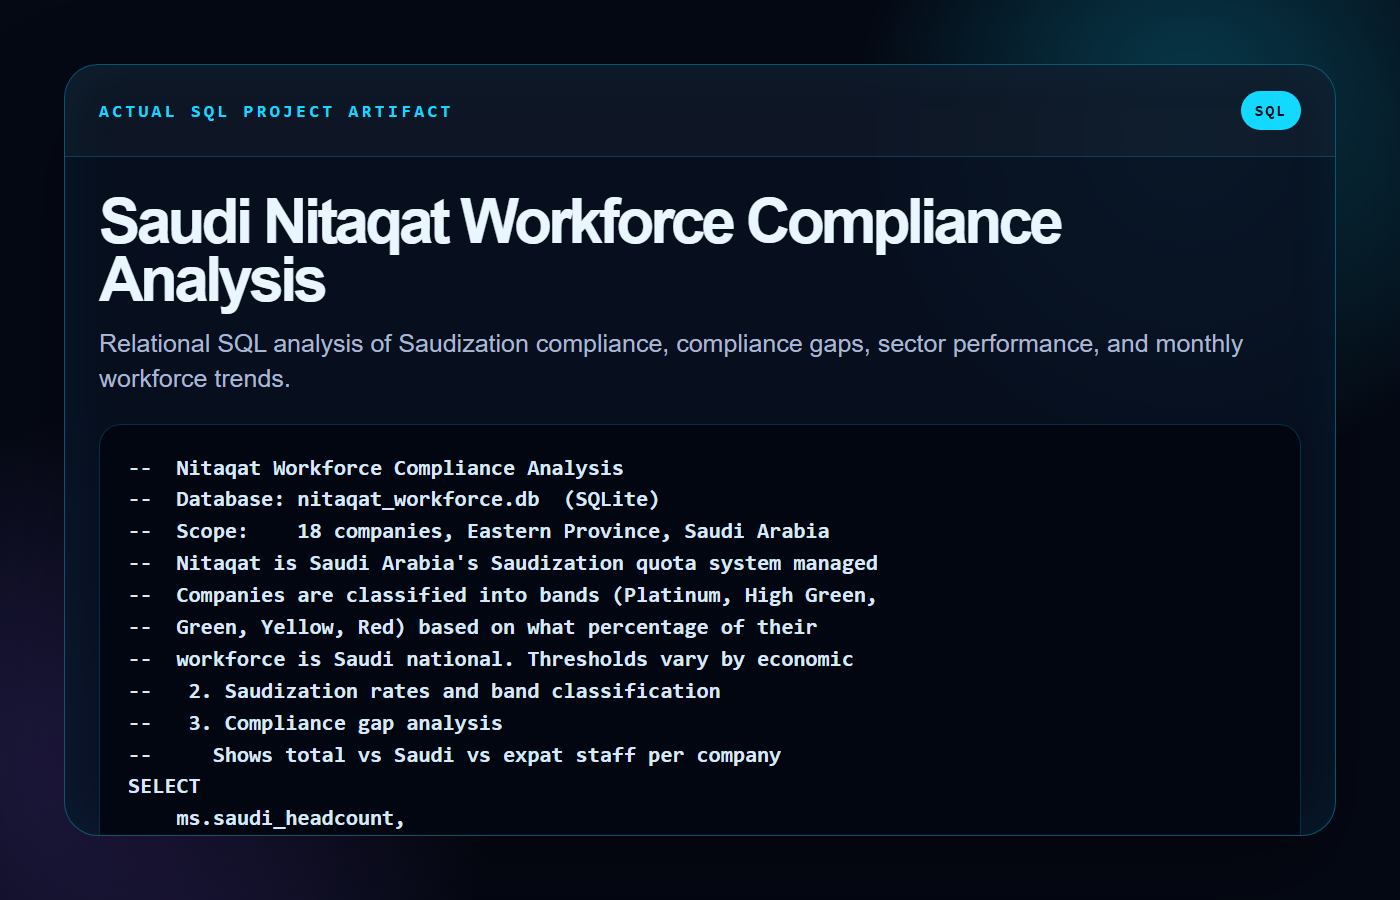
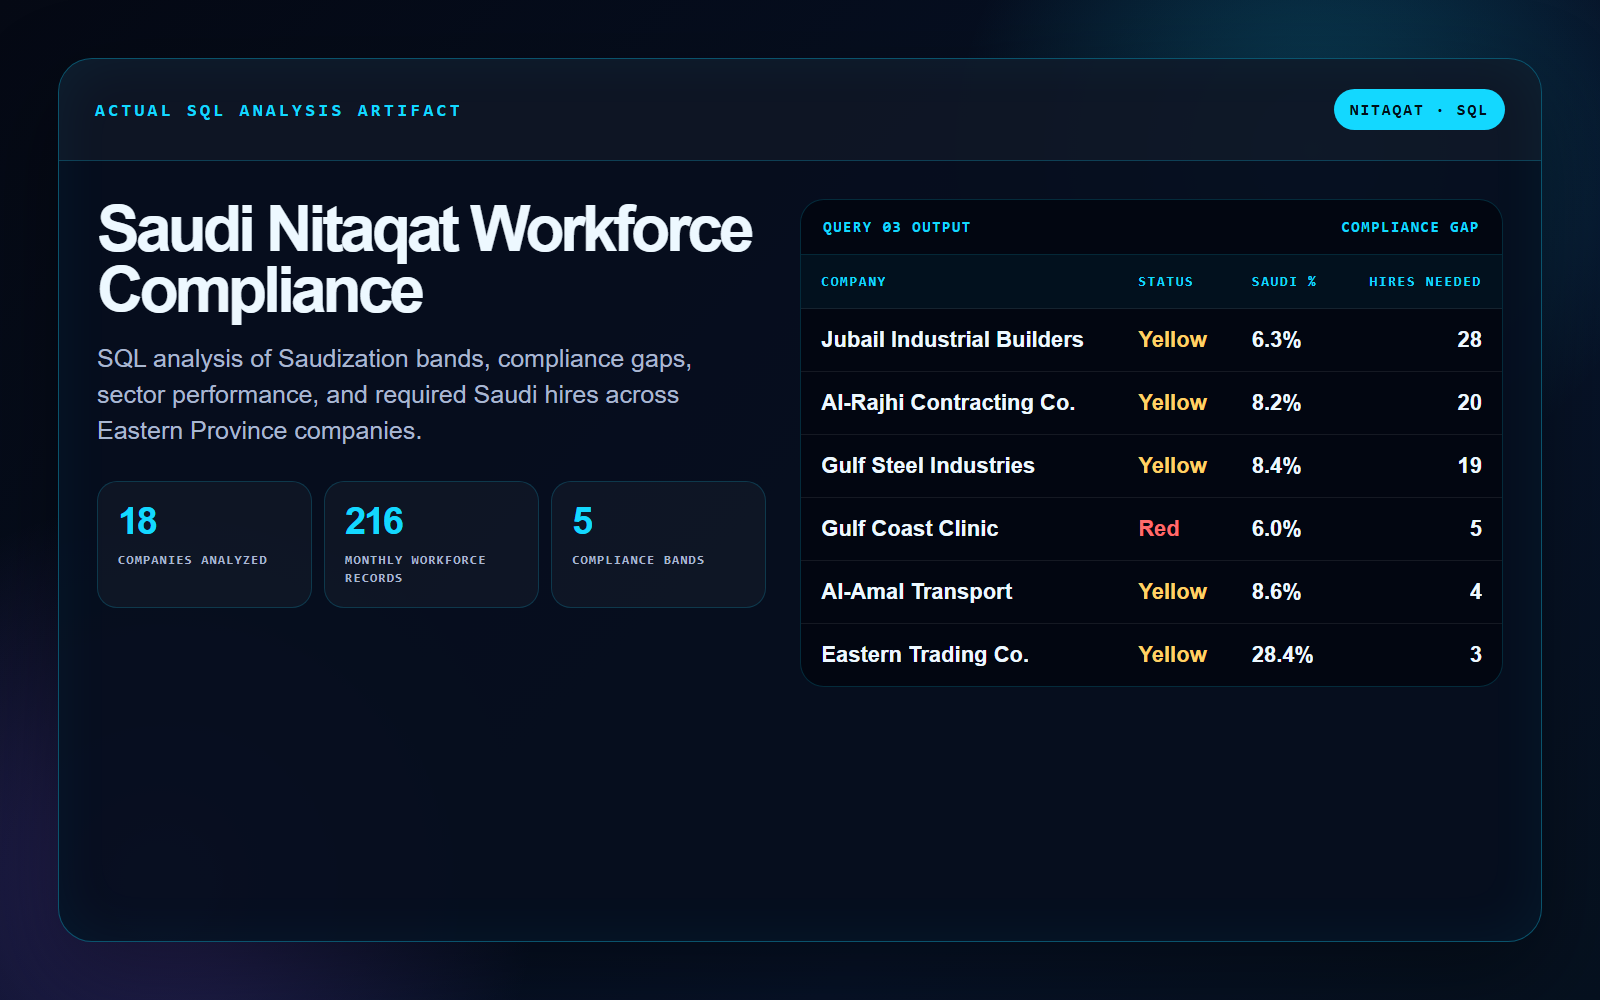
Improve Nitaqat project screenshot layout

diff --git a/styles.css b/styles.css
@@ -306,7 +306,7 @@ a { color: inherit; text-decoration: none; }
 }
 .project-card {
   display: grid;
-  grid-template-columns: 86px 300px minmax(0, 1fr);
+  grid-template-columns: 86px minmax(360px, 420px) minmax(0, 1fr);
   gap: 28px;
   padding: 34px 0;
   align-items: center;
@@ -316,7 +316,7 @@ a { color: inherit; text-decoration: none; }
   transition: border-color .2s ease, transform .2s ease;
 }
 .project-card.featured {
-  grid-template-columns: 86px 340px minmax(0, 1fr);
+  grid-template-columns: 86px minmax(380px, 440px) minmax(0, 1fr);
 }
 .project-card:hover {
   border-color: var(--line-strong);
@@ -348,7 +348,7 @@ a { color: inherit; text-decoration: none; }
   overflow: hidden;
   border: 1px solid var(--line);
   border-radius: 22px;
-  aspect-ratio: 16 / 10;
+  aspect-ratio: 16 / 9.5;
   background: rgba(255,255,255,.025);
 }
 .project-media::after {
@@ -587,7 +587,7 @@ footer {
 }
 .reveal.visible { opacity: 1; transform: none; }
 
-@media (max-width: 960px) {
+  @media (max-width: 960px) {
   .hero-inner,
   .split,
   .about-grid {